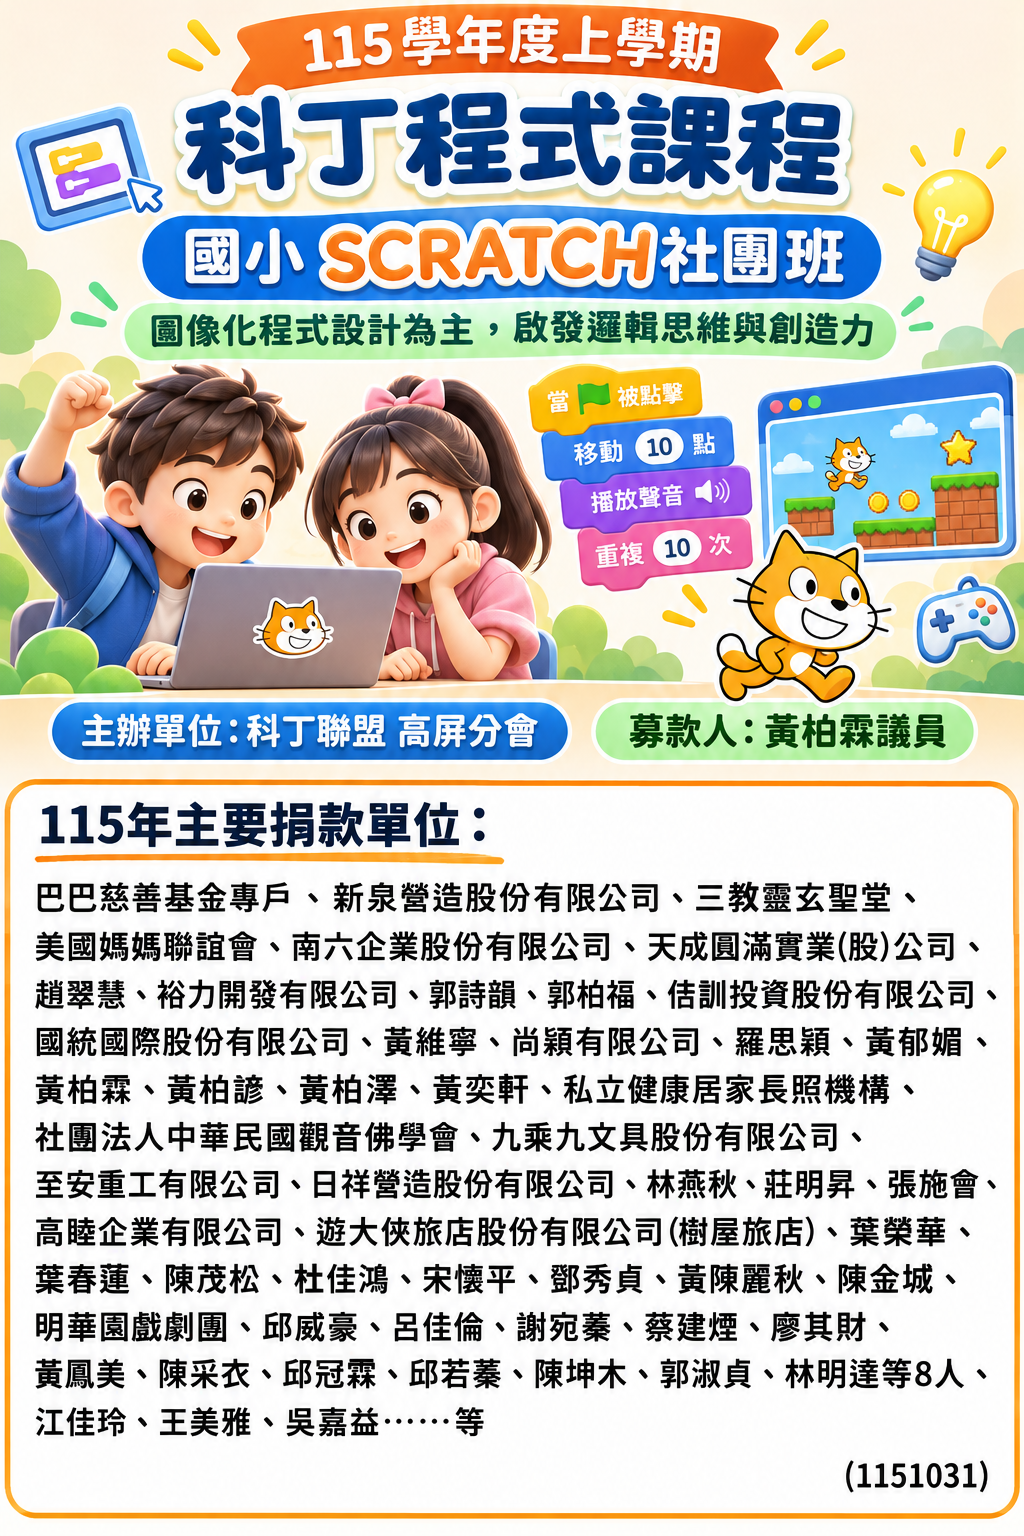
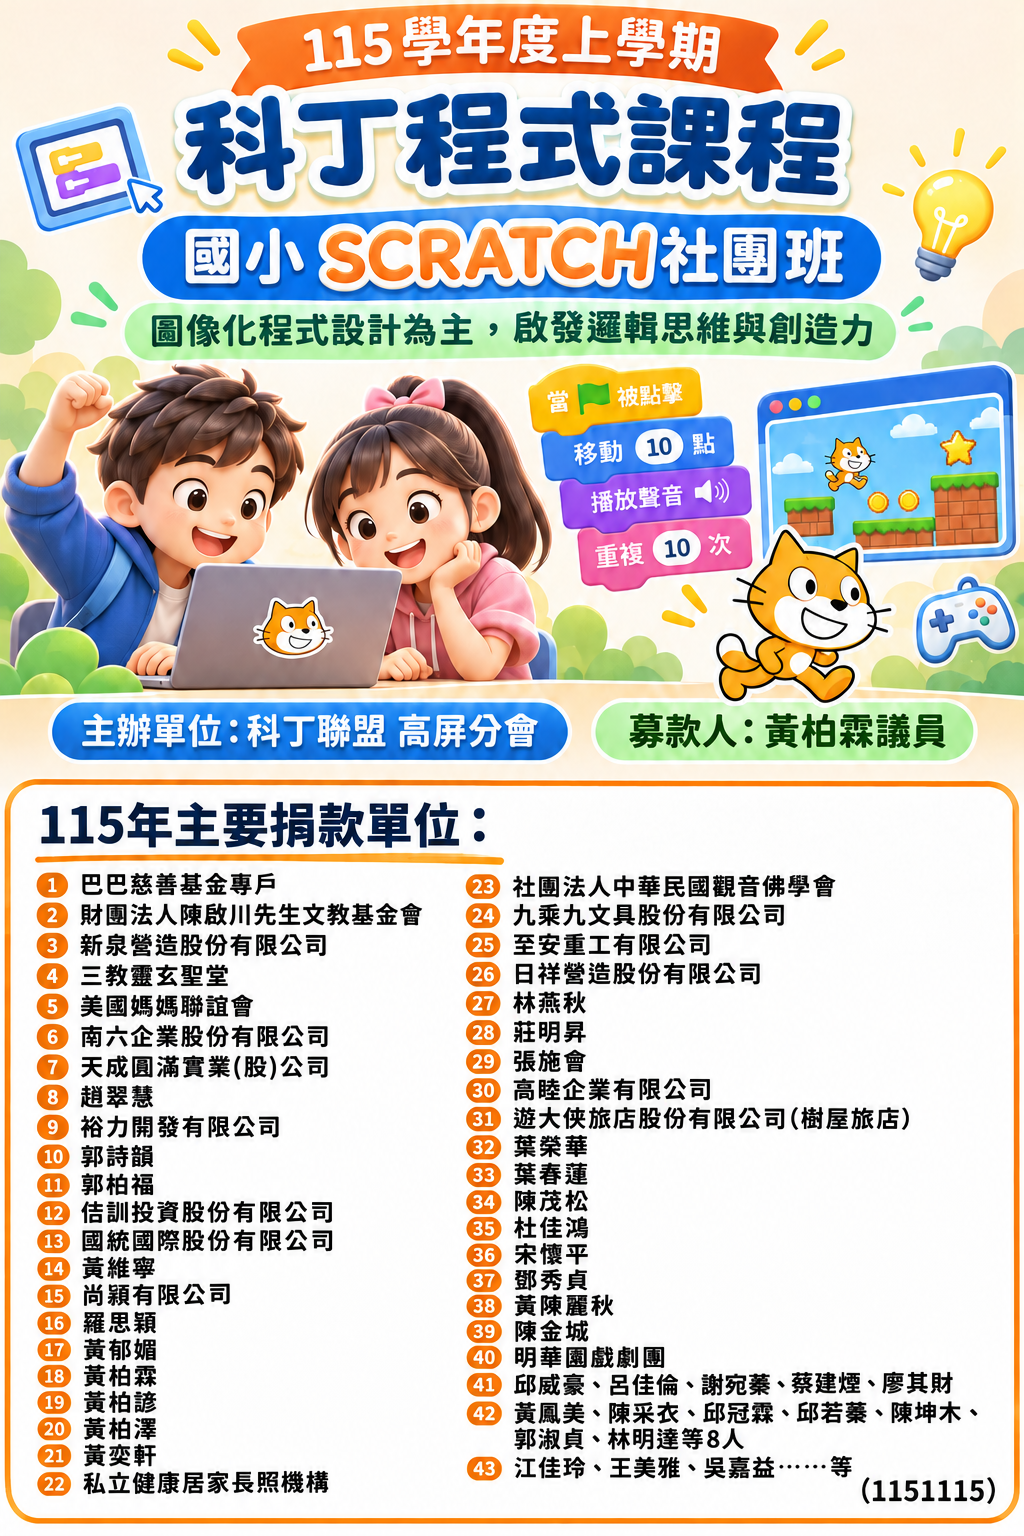
Update lesson 5 sponsor poster

diff --git a/lessons/05-cat-space-adventure/index.html b/lessons/05-cat-space-adventure/index.html
@@ -16,8 +16,8 @@
 <section class="card" id="sponsors">
   <h2>公益課程贊助致謝</h2>
   <p>感謝科丁聯盟高屏分會推動國小 Scratch 公益課程，也謝謝海報上所有捐款單位與個人的支持。</p>
-  <a href="assets/scratch-public-course-sponsors.png" target="_blank" rel="noopener">
-    <img src="assets/scratch-public-course-sponsors.png" width="1024" height="1536" loading="lazy" alt="國小 Scratch 公益課程海報，列有 115 年主要捐款單位及個人" style="display:block;max-width:min(100%, 680px);height:auto;margin:0 auto 12px">
+  <a href="assets/scratch-public-course-sponsors.png?v=1151115" target="_blank" rel="noopener">
+    <img src="assets/scratch-public-course-sponsors.png?v=1151115" width="1024" height="1536" loading="lazy" alt="國小 Scratch 公益課程海報，列有 115 年主要捐款單位及個人" style="display:block;max-width:min(100%, 680px);height:auto;margin:0 auto 12px">
     開啟完整海報大圖
   </a>
 </section>
